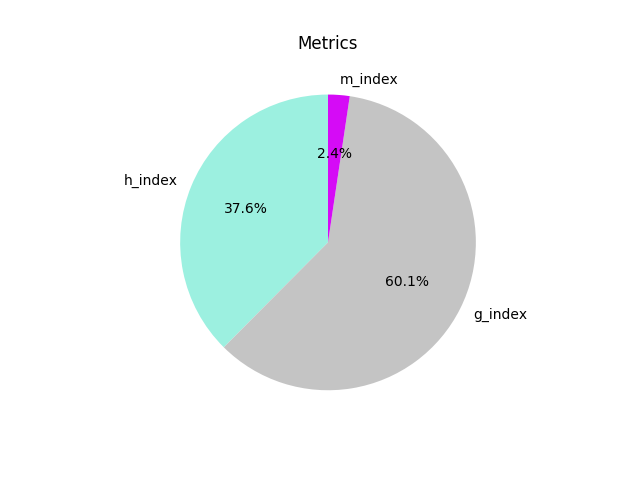
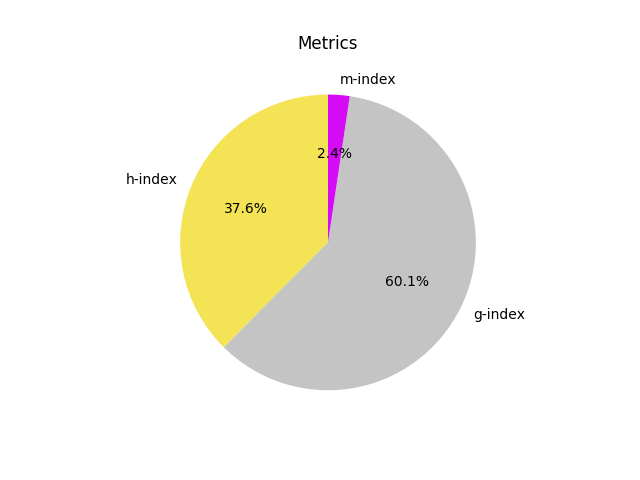
updated user profile info, added company and website

Changed region(s): [[0.1875, 0.1875, 0.5312, 0.7188], [0.75, 0.625, 0.8125, 0.6875], [0.5312, 0.1562, 0.625, 0.1875]]

diff --git a/metrics/static/metrics/profiledesign.css b/metrics/static/metrics/profiledesign.css
@@ -112,7 +112,7 @@ img#pro_cur{
 img#profile{
 	position: absolute;
 	top: 210px;
-	border-radius: 321.5px;
+	border-radius: 180.5px;
 	left: 332px;
 }
 
@@ -170,28 +170,45 @@ div.Table{
 }
 #gindex{
 	position: absolute;
-	left: 335px;
-	top: 50px;
-	font-size: 18px;
-	color: #1CB019;
+	left: 70px;
+	top: 140px;
+	font-size: 25px;
+	color: #C4C4C4;
 }
 #hindex{
 	position: absolute;
-	left: 350px;
-	top: 82px;
-	font-size: 18px;
-	color: #1CB019;
+	left: 320px;
+	top: 160px;
+	font-size: 25px;
+	color: #F3E355;
 }
 #mindex{
 	position: absolute;
-	left: 335px;
-	top: 114px;
-	font-size: 18px;
-	color: #1CB019;
+	left: 550px;
+	top: 140px;
+	font-size: 25px;
+	color: #D50BF6;
 }
 .piechart{
 	position: absolute;
 	left: 800px;
-	top: 198px;
-	background: #1CB019;
+	top: 248px;
+}
+#pie{
+	position: absolute;
+	height: 420px;
+	width: 420px;
+}
+#company{
+	position: absolute;
+	left: 240px;
+	top: 90px;
+	font-size: 18px;
+}
+#website{
+	position: absolute;
+	left: 335px;
+	top: 52px;
+	font-size: 18px;
+
 }

diff --git a/metrics/templates/metrics/profile.html b/metrics/templates/metrics/profile.html
@@ -43,6 +43,8 @@
 		<br>
 		<h1 class="name"> {{ Name }}</h1>
 		<div class= "info_rect"><p class= "info_rect_text" id= "country">{{ Country }}</p>
+			<p class= "info_rect_text" id= "company"> {{ company }}</p>
+			<a class=" info_rect_text" id= "website" href="{{ website }}">Website</a>
 			<p class= "info_rect_text" id= "publications">Publications {{ publications }}</p>
 			<p class= "info_rect_text" id= "tcitations">Citations {{ Tcitations }}</p>
 			<p class= "info_rect_text" id= "gindex">G-index {{ g_index }}</p>
@@ -52,7 +54,7 @@
 
 	</div>
 	<div class="piechart">
-		<img src="{{ user }}">
+		<img id= "pie" src="{{ user }}">
 	</div>
 
 	<div class="Table">

diff --git a/metrics/views.py b/metrics/views.py
@@ -45,6 +45,8 @@ class ResultView(ListView):
 	def get(self, request, scholar_url):
 		scholar_object= ScholarProfile.objects.get(profile_url= scholar_url)
 		country= scholar_object.country
+		company= scholar_object.Company
+		website=scholar_object.Website
 		t_publications= scholar_object.publications
 		t_citations= scholar_object.Tcitations
 		Year= scholar_object.Year
@@ -70,8 +72,10 @@ class ResultView(ListView):
 		img_url="https://scholar.google.com.au/citations?view_op=view_photo&user="+scholar_url+"&citpid=2"
 		gpath= '/static/metrics/images/'+scholar_url+'.png'
 		print (gpath)
-		return (render (request, self.template_name, {'Name': scholar_name, 'user': gpath, 'list': publications, 'searchform': search_form, 'img_url': img_url, 'table': table,
-						 'Country': country, 'publications': t_publications, 'Tcitations': t_citations, 'g_index': g_index, 'h_index': h_index, 'm_index': m_index}))
+		return (render (request, self.template_name, {'Name': scholar_name, 'user': gpath,
+		 'list': publications, 'searchform': search_form, 'img_url': img_url, 'table': table, 
+		 'company': company, 'website':website, 'Country': country, 'publications': t_publications, 
+		 'Tcitations': t_citations, 'g_index': g_index, 'h_index': h_index, 'm_index': m_index}))
 		
 
 

diff --git a/metrics/scrap.py b/metrics/scrap.py
@@ -49,6 +49,16 @@ class Scraper():
 				scholar_name= Name.text
 				img = page_soup.find('img', {'id': 'gsc_prf_pup-img'})
 				img_url= img["src"]
+				Website = page_soup.findAll('a', {'class': 'gsc_prf_ila'})
+				work_info = page_soup.find('div', {'class': 'gsc_prf_il'})	
+				company= work_info.text	
+				counter=0
+				for site in Website:
+					if(len(Website)==2):
+						if(counter==0):
+							counter+=1
+							continue
+					website = site["href"]
 
 			Titles = page_soup.findAll('td', {'class': 'gsc_a_t'})			# publication titles
 
@@ -141,7 +151,7 @@ class Scraper():
 
 		Graph.piechart(h_index, g_index, m_index, user)
 
-		q= ScholarProfile(author_name= scholar_name, normalized_citations= normalized_citations, profile_url= user, publication_title= title_list, citations=newCitations,
+		q= ScholarProfile(author_name= scholar_name, Company= company, Website= website, normalized_citations= normalized_citations, profile_url= user, publication_title= title_list, citations=newCitations,
 			coAuthors=number_of_coauths, country=self.country, publications= len(title_list),Tcitations= total_citations, Year= YEARS, Gindex= g_index, Hindex= h_index, Mindex= m_index, created_at= timezone.now())
 		q.save()
 

diff --git a/metrics/migrations/0010_auto_20190719_1630.py b/metrics/migrations/0010_auto_20190719_1630.py
@@ -1,0 +1,23 @@
+# Generated by Django 2.2.3 on 2019-07-19 11:00
+
+from django.db import migrations, models
+
+
+class Migration(migrations.Migration):
+
+    dependencies = [
+        ('metrics', '0009_auto_20190718_1028'),
+    ]
+
+    operations = [
+        migrations.AddField(
+            model_name='scholarprofile',
+            name='Company',
+            field=models.CharField(max_length=100, null=True),
+        ),
+        migrations.AddField(
+            model_name='scholarprofile',
+            name='Website',
+            field=models.CharField(max_length=100, null=True),
+        ),
+    ]

diff --git a/metrics/models.py b/metrics/models.py
@@ -5,6 +5,8 @@ from django.contrib.postgres.fields import ArrayField
 class ScholarProfile(models.Model):
 	author_name= models.CharField(max_length=100)
 	profile_url= models.URLField(max_length=200, primary_key= True)
+	Company= models.CharField(max_length=100, null=True)
+	Website= models.CharField(max_length=100, null=True)
 	publication_title= ArrayField(models.CharField(max_length=500))
 	normalized_citations= ArrayField(models.CharField(max_length=50), null= True)
 	citations= ArrayField(models.CharField(max_length=50), null= True)

diff --git a/metrics/graphs.py b/metrics/graphs.py
@@ -6,7 +6,7 @@ class Graph():
 	def piechart(h_index, g_index, m_index, user):
 		print (h_index, g_index, m_index)
 		data_to_fill= [h_index, g_index, m_index]
-		labels= ['h_index', 'g_index', 'm_index']
+		labels= ['h-index', 'g-index', 'm-index']
 		colors= ['#F3E355', '#C4C4C4', '#D50BF6']
 		plt.pie(data_to_fill, labels= labels, colors= colors, startangle=90, autopct='%.1f%%')
 		plt.title('Metrics')
